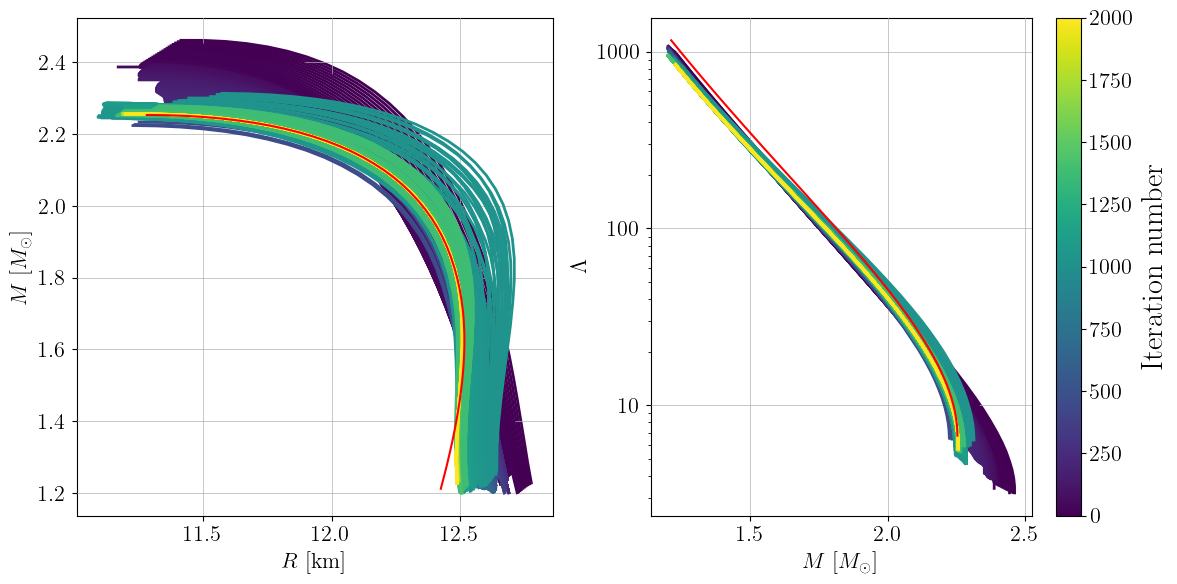
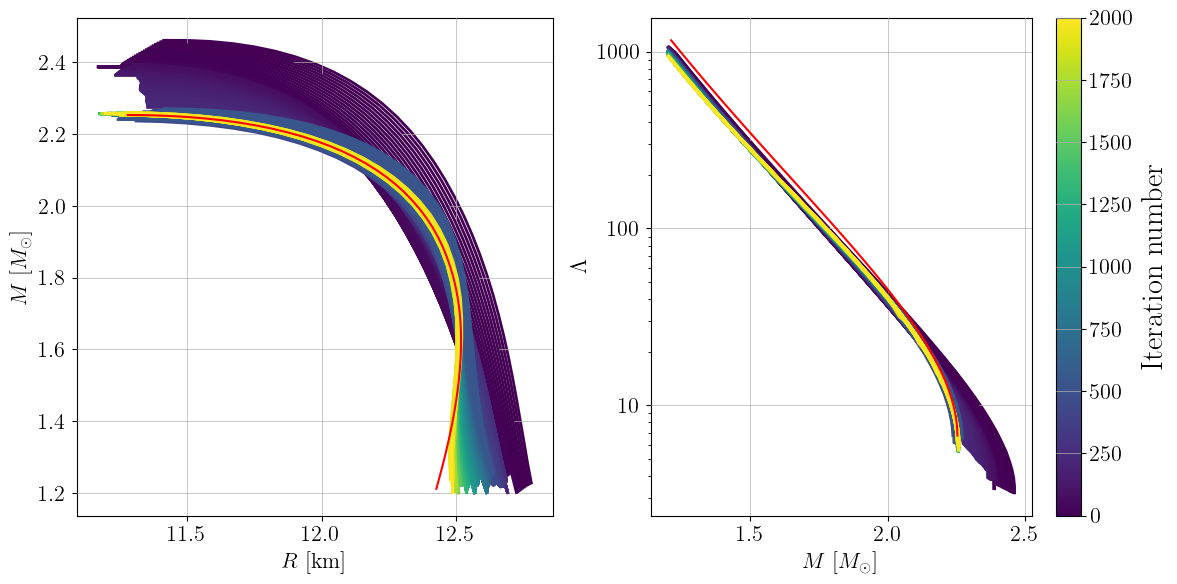
Repro the almost exact radius run

diff --git a/src/paper_jose/doppelgangers/doppelgangers.py b/src/paper_jose/doppelgangers/doppelgangers.py
@@ -939,11 +939,6 @@ class DoppelgangerRun:
                 p = out["p"] / jose_utils.MeV_fm_inv3_to_geometric
                 cs2 = out["cs2"]
                 
-                n = out["n"] / jose_utils.fm_inv3_to_geometric / 0.16
-                e = out["e"] / jose_utils.MeV_fm_inv3_to_geometric
-                p = out["p"] / jose_utils.MeV_fm_inv3_to_geometric
-                cs2 = out["cs2"]
-                
                 # # p_c is saved in log space, so take exp and make sure we do unit conversion properly
                 # p_c_array = jnp.exp(out["p_c_EOS"]) / jose_utils.MeV_fm_inv3_to_geometric
                 # # Get the p_c either at TOV mass - or - right at 2 M_odot:
@@ -1064,7 +1059,161 @@ class DoppelgangerRun:
         data = np.column_stack((r, m, l))
         np.savetxt('my_target_macroscopic.dat', data, delimiter=' ')
 
-        print("Saved new target!")        
+        print("Saved new target!")
+        
+    def analyze_results(self):
+        
+        # Highly custom function to check some stuff 
+        outdir = "./almost_exact_radius/3133"
+        data = os.path.join(outdir, "data")
+        figures_dir = os.path.join(outdir, "figures")
+        
+        # Load the final data
+        npz_files = [f for f in os.listdir(data) if f.endswith(".npz") and "best" not in f]
+        numbers = [int(f.split(".")[0]) for f in npz_files]
+        final_number = max(numbers)
+        npz_file = os.path.join(data, f"{final_number}.npz")
+        data = np.load(npz_file)
+        
+        eos_params = {k: data[k] for k in self.prior.parameter_names}
+        
+        print("The EOS params of this EOS are:")
+        for key, value in eos_params.items():
+            print(key)
+            print(value)
+        
+        m, r, l = data["masses_EOS"], data["radii_EOS"], data["Lambdas_EOS"]
+        mask = (m > 0.8)
+        m = m[mask]
+        r = r[mask]
+        l = l[mask]
+        
+        # Same for target
+        mask = (self.m_target > 0.8)
+        m_target = self.m_target[mask]
+        r_target = self.r_target[mask]
+        Lambdas_target = self.Lambdas_target[mask]
+        
+        # Plot the errors
+        plt.subplots(nrows = 1, ncols = 2, figsize = (12, 6))
+        
+        plt.subplot(121)
+        plt.plot(r_target, m_target, color = "red", zorder = 1e10)
+        plt.plot(r, m, color="black", linewidth = 2.0)
+        plt.xlabel(r"$R$ [km]")
+        plt.ylabel(r"$M \ [M_\odot]$")
+        
+        plt.subplot(122)
+        plt.plot(m_target, Lambdas_target, color = "red", zorder = 1e10)
+        plt.xlabel(r"$M \ [M_\odot]$")
+        plt.ylabel(r"$\Lambda$")
+        plt.plot(m, l, color="black", linewidth = 2.0)
+        plt.yscale("log")
+        
+        plt.savefig(os.path.join(figures_dir, "final_results.png"), bbox_inches = "tight")
+        plt.close()
+        
+        # Errors plotted
+        radii_interp = jnp.interp(self.masses_array, m, r, left = 0, right = 0)
+        lambdas_interp = jnp.interp(self.masses_array, m, l, left = 0, right = 0)
+        
+        radii_target_interp = jnp.interp(self.masses_array, m_target, r_target, left = 0, right = 0)
+        lambdas_target_interp = jnp.interp(self.masses_array, m_target, Lambdas_target, left = 0, right = 0)
+        
+        # Errors
+        errors_radii = abs(radii_interp - radii_target_interp)
+        errors_radii = errors_radii * 1000
+        errors_lambdas = abs(lambdas_interp - lambdas_target_interp)
+        
+        plt.subplots(nrows = 1, ncols = 2, figsize = (12, 6))
+        
+        plt.subplot(121)
+        plt.plot(self.masses_array, errors_radii, color = "black", zorder = 1e10)
+        plt.xlabel(r"$M \ [M_\odot]$")
+        plt.ylabel(r"$\Delta R \ [\rm{m}] \ (L_\infty)$ ")
+        plt.yscale("log")
+        
+        plt.subplot(122)
+        plt.plot(self.masses_array, errors_lambdas, color = "black", zorder = 1e10)
+        plt.xlabel(r"$M \ [M_\odot]$")
+        plt.ylabel(r"$\Delta \Lambda \ (L_\infty)$ ")
+        plt.yscale("log")
+        
+        plt.savefig(os.path.join(figures_dir, "final_results_errors.png"), bbox_inches = "tight")
+        plt.close()
+        
+        ### EOS
+        
+        n, e, p, cs2 = data["n"], data["e"], data["p"], data["cs2"]
+        
+        n = n / jose_utils.fm_inv3_to_geometric / 0.16
+        e = e / jose_utils.MeV_fm_inv3_to_geometric
+        p = p / jose_utils.MeV_fm_inv3_to_geometric
+        
+        logpc = data["logpc_EOS"]
+        pc = jnp.exp(logpc) / jose_utils.MeV_fm_inv3_to_geometric
+        pc = pc[-1]
+        
+        n_TOV = get_n_TOV(n, p, pc)
+        print("n_TOV")
+        print(n_TOV)
+        
+        # Limit everything to be up to the maximum saturation density
+        nmin = 0.5
+        nmax = n_TOV + 1
+        mask = (n > nmin) * (n < nmax)
+        n, e, p, cs2 = n[mask], e[mask], p[mask], cs2[mask]
+        
+        # Print if any cs2 is above 1:
+        mask = cs2 > 1
+        if mask.any():
+            print("There are cs2 above 1!")
+        
+        mask_target = (self.n_target > nmin) * (self.n_target < nmax)
+        n_target, e_target, p_target, cs2_target = self.n_target[mask_target], self.e_target[mask_target], self.p_target[mask_target], self.cs2_target[mask_target]
+        
+        plt.subplots(figsize = (22, 16), nrows = 2, ncols = 2)
+        plt.subplot(221)
+        plt.plot(n, e, color = "red")
+        plt.plot(n_target, e_target, color = "black", label = "Target")
+        plt.axvline(eos_params["nbreak"], color = "black", linestyle = "--")
+        plt.xlabel(r"$n$ [$n_{\rm{sat}}$]")
+        plt.ylabel(r"$e$ [MeV fm$^{-3}$]")
+        plt.xlim(nmin, nmax)
+        
+        plt.subplot(222)
+        plt.plot(n, p, color = "red")
+        plt.plot(n_target, p_target, color = "black", label = "Target")
+        plt.axvline(eos_params["nbreak"], color = "black", linestyle = "--")
+        plt.xlabel(r"$n$ [$n_{\rm{sat}}$]")
+        plt.ylabel(r"$p$ [MeV fm$^{-3}$]")
+        plt.xlim(nmin, nmax)
+        
+        plt.subplot(223)
+        plt.plot(n, cs2, color = "red")
+        plt.plot(n_target, cs2_target, color = "black", label = "Target")
+        plt.axvline(eos_params["nbreak"], color = "black", linestyle = "--")
+        plt.xlabel(r"$n$ [$n_{\rm{sat}}$]")
+        plt.ylabel(r"$c_s^2$")
+        plt.xlim(nmin, nmax)
+        plt.ylim(0, 1)
+        
+        plt.subplot(224)
+        e_min = 200
+        e_max = 1500
+        mask = (e_min < e) * (e < e_max)
+        mask_target = (e_min < self.e_target) * (self.e_target < e_max)
+        
+        plt.plot(e[mask], p[mask], color = "red")
+        plt.plot(self.e_target[mask_target], self.p_target[mask_target], color = "black", label = "Target")
+        
+        plt.xlabel(r"$e$ [MeV fm$^{-3}$]")
+        plt.ylabel(r"$p$ [MeV fm$^{-3}$]")
+        plt.xlim(e_min, e_max)
+        
+        # Savefig:
+        plt.savefig(os.path.join(figures_dir, "final_results_EOS.png"), bbox_inches = "tight")
+        plt.close()
 
 #################
 ### UTILITIES ###
@@ -1191,10 +1340,10 @@ def initialize_walkers(prior: CombinePrior,
     
 
 def main(N_runs: int = 1,
-         from_starting_points: bool = False, # whether to start from the given starting points from benchmark random samples
+         from_starting_points: bool = True, # whether to start from the given starting points from benchmark random samples
          fixed_CSE: bool = False, # use a CSE, but have it fixed, vary only the metamodel
          metamodel_only = False, # only use the metamodel, no CSE used at all
-         which_score: str = "Lambdas" # score function to be used for optimization.
+         which_score: str = "radii" # score function to be used for optimization.
          ):
     
     ### SETUP
@@ -1309,14 +1458,15 @@ def main(N_runs: int = 1,
                                        transform, 
                                        which_score, 
                                        seed, 
-                                       nb_steps = 200,
+                                       nb_steps = 2000,
                                        learning_rate = learning_rate,
                                        fixed_params=fixed_params,
-                                       use_early_stopping=True,
+                                       use_early_stopping=False,
                                        load_params = False)
         
-        # Do the run
-        doppelganger.run(params)
+        # # Do the run
+        # doppelganger.run(params)
+        doppelganger.analyze_results()
         
         # Generate new seed for next run
         seed = np.random.randint(0, 100_000)
